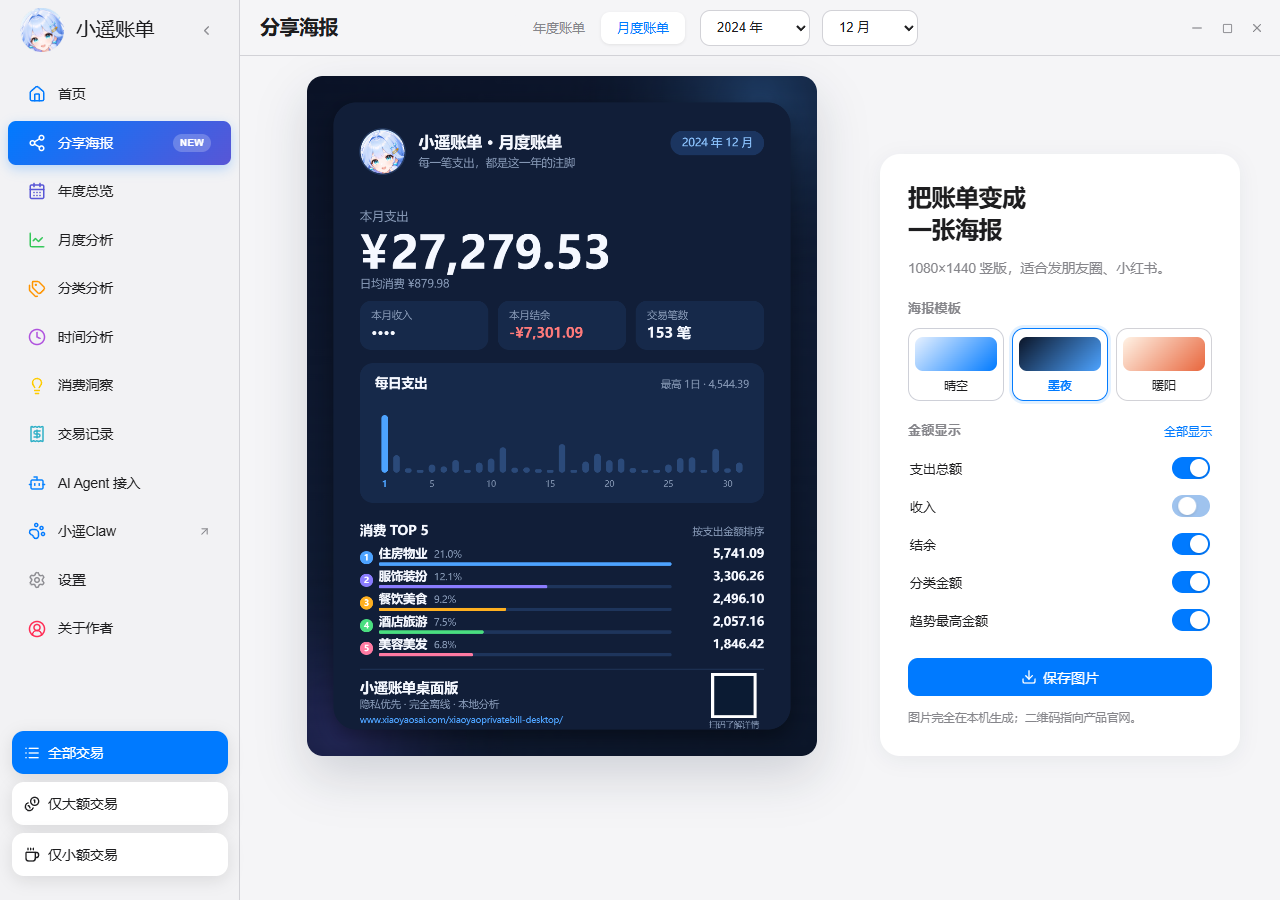
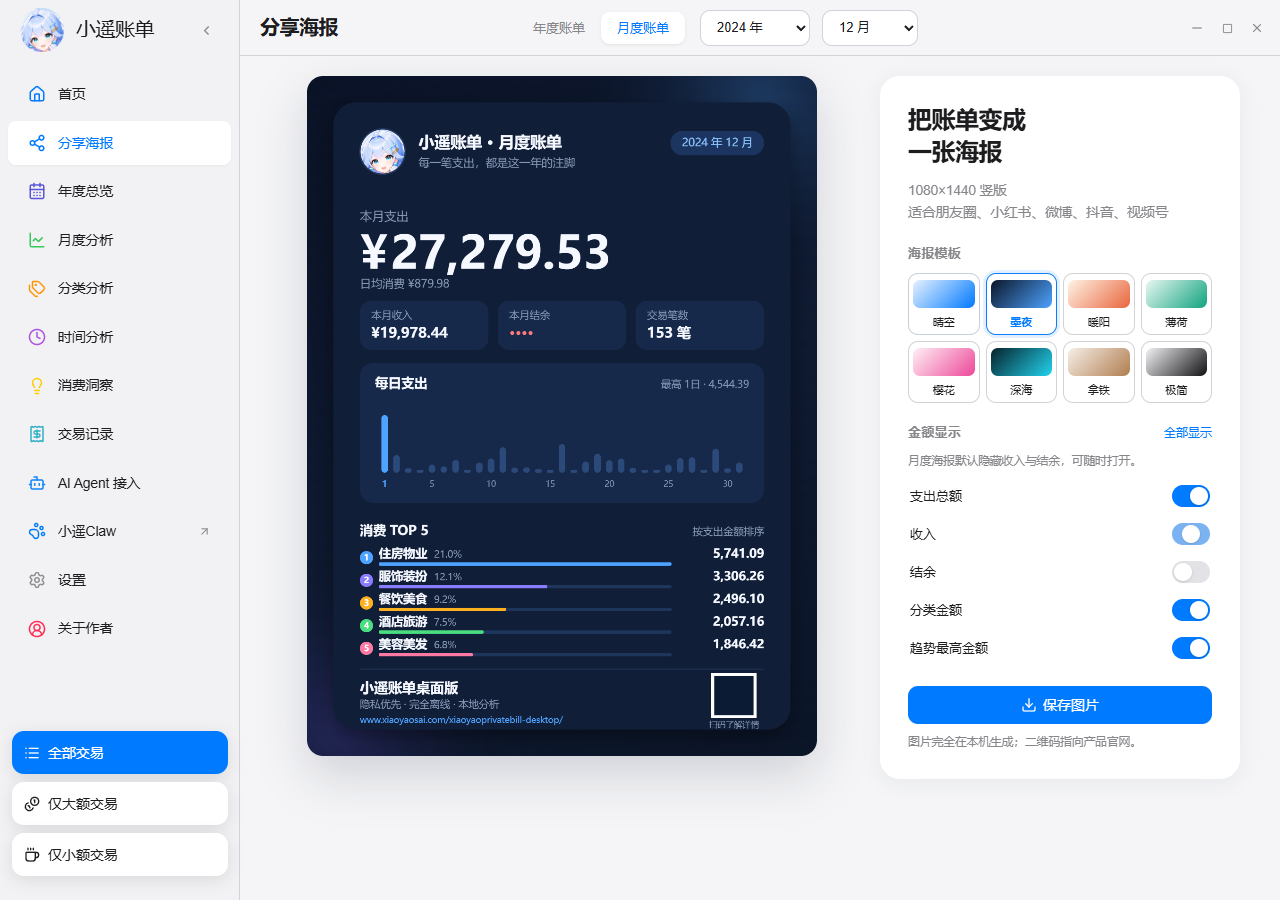
docs: 模板数量更新为 8 套并替换月度截图

diff --git a/docs/开发进度.md b/docs/开发进度.md
@@ -26,7 +26,7 @@
 | P4 MCP | ✅ 14/14 工具、鉴权、生命周期、审计、AI Agent 接入页、并发串行化 |
 | P5 桌面行为 | ✅ 托盘、关闭提示、单实例、窗口状态、目录、分组、双向同步 |
 | P6 打包 | 🟢 Windows 1.0.0 已验收（WebView2 专项跳过）；🟢 macOS universal dmg 经 GitHub Actions 产出并上传 Release；🔵 macOS 真机安装验收待确认 |
-| P7 分享海报 | 🟢 侧边栏常驻入口 + 独立页面；年度 / 月度、3 套模板、金额逐项开关（月度默认隐藏收入与结余）、当月截至日期、PNG 保存、官网二维码；单测 + Playwright 45 通过，待用户手动验收 |
+| P7 分享海报 | 🟢 侧边栏常驻入口 + 独立页面；年度 / 月度、8 套模板、金额逐项开关（月度默认隐藏收入与结余）、当月截至日期、PNG 保存、官网二维码；单测 + Playwright 45 通过，待用户手动验收 |
 | Git 提交 | 前端基线 + P0–P5 按交付单元提交；`main` 为唯一开发分支 |
 | 可运行产物 | 前端 `dist/`、主程序 exe、Windows NSIS 1.0.0 安装包均已产出并完成安装使用验收 |
 
@@ -652,6 +652,7 @@
 | v1.73 | 2026-11-12 | 分享海报新增当月「数据截至 X 日」标签；月度默认隐藏收入与结余，并提示可随时打开 |
 | v1.74 | 2026-11-12 | 移除年度总览页的分享海报入口，海报统一从侧边栏「分享海报」进入；SharePoster 收敛为页面组件 |
 | v1.75 | 2026-11-12 | 分享海报侧边栏入口降低视觉强度：去掉常驻渐变、阴影与 NEW 徽标，恢复与其他菜单一致的选中样式，补 tooltip |
+| v1.76 | 2026-11-12 | 分享海报模板扩展到 8 套（新增薄荷 / 樱花 / 深海 / 拿铁 / 极简），模板选择器改为 4 列布局 |
 
 ---
 

diff --git a/README.md b/README.md
@@ -33,7 +33,7 @@
 - 🤖 **Agent 可调用** - 内置 14 个 MCP 工具，用自然语言查账、做分析
 - 🖥 **桌面原生** - 自绘标题栏、可收起侧边栏、系统托盘、单实例、窗口状态记忆、拖拽导入
 - 🗑 **可恢复删除** - 回收站、快照、审计日志，降低误操作风险
-- 🖼 **一键分享海报** - 年度 / 月度海报、3 套模板、金额逐项开关，自带官网二维码
+- 🖼 **一键分享海报** - 年度 / 月度海报、8 套模板、金额逐项开关，自带官网二维码
 - 🧬 **与 Web 版同源** - 视觉与统计口径与 [Web 版](https://github.com/dtsola/xiaoyaoprivatebill) 一致
 
 ---
@@ -126,7 +126,7 @@
 <ul>
 <li>🖼 侧边栏「分享海报」直接进入独立页面</li>
 <li>📐 支持年度 / 月度范围，1080×1440 竖版海报</li>
-<li>🎨 3 套模板，支出、收入、结余、分类、峰值金额可逐项开关</li>
+<li>🎨 8 套模板（晴空 / 墨夜 / 暖阳 / 薄荷 / 樱花 / 深海 / 拿铁 / 极简），金额可逐项开关</li>
 <li>🔒 可隐藏金额后再分享，敏感数字不会出现在图片里</li>
 <li>📱 海报自带产品官网二维码，方便发朋友圈、小红书、微博、抖音</li>
 </ul>

diff --git a/docs/01-prd.md b/docs/01-prd.md
@@ -172,7 +172,7 @@ Web 版在本期冻结，仅修复安全问题；新功能只进桌面版。
 
 | # | 功能 | 说明 | 对应命令 |
 |---|---|---|---|
-| F22 | 账单分享海报 | 侧边栏「分享海报」独立页面：支持年度 / 月度两种范围；1080×1440 PNG，含收支、趋势、消费 Top 5、官网二维码；内置 3 套模板（晴空 / 墨夜 / 暖阳）；支出、收入、结余、分类金额、趋势最高金额可逐项开关（月度默认隐藏收入与结余）；当月数据未覆盖月末时标注「数据截至 X 日」；保存到用户选择路径 | `share_qr_svg`、`save_share_poster` |
+| F22 | 账单分享海报 | 侧边栏「分享海报」独立页面：支持年度 / 月度两种范围；1080×1440 PNG，含收支、趋势、消费 Top 5、官网二维码；内置 8 套模板（晴空 / 墨夜 / 暖阳 / 薄荷 / 樱花 / 深海 / 拿铁 / 极简）；支出、收入、结余、分类金额、趋势最高金额可逐项开关（月度默认隐藏收入与结余）；当月数据未覆盖月末时标注「数据截至 X 日」；保存到用户选择路径 | `share_qr_svg`、`save_share_poster` |
 
 验收要点：
 

diff --git a/docs/04-开发任务清单.md b/docs/04-开发任务清单.md
@@ -478,7 +478,7 @@ npm run tauri dev
 
 | ID | 任务 | 产出与验收 | 依赖 | 优先级 | 状态 |
 |---|---|---|---|---|---|
-| P7-1 | 账单分享海报 | 侧边栏第二项「分享海报」独立页面；年度 / 月度范围切换；3 套模板；支出、收入、结余、分类金额、趋势峰值逐项开关（月度默认隐藏收入与结余）；当月不完整标注截至日期；1080×1440 PNG 保存；二维码指向官网；单测 + Playwright 全绿 | P2-1 | P1 | 🟢 |
+| P7-1 | 账单分享海报 | 侧边栏第二项「分享海报」独立页面；年度 / 月度范围切换；8 套模板；支出、收入、结余、分类金额、趋势峰值逐项开关（月度默认隐藏收入与结余）；当月不完整标注截至日期；1080×1440 PNG 保存；二维码指向官网；单测 + Playwright 全绿 | P2-1 | P1 | 🟢 |
 
 验收命令：
 

diff --git a/README_EN.md b/README_EN.md
@@ -137,7 +137,7 @@ Xiaoyao Private Bill Analyzer – Desktop is a **privacy-first** personal bill a
 <td width="50%">
 <ul>
 <li>🌙 Monthly scope: daily spending trend plus the month's top 5 categories</li>
-<li>🎨 Switch between Ink, Sunset, and Sky themes in one click</li>
+<li>🎨 8 themes: Sky, Ink, Sunset, Mint, Sakura, Ocean, Latte, and Mono</li>
 <li>🔁 Per-item amount toggles; monthly posters hide income and balance by default</li>
 <li>📅 Partial current months are labelled with the data cutoff date</li>
 </ul>
